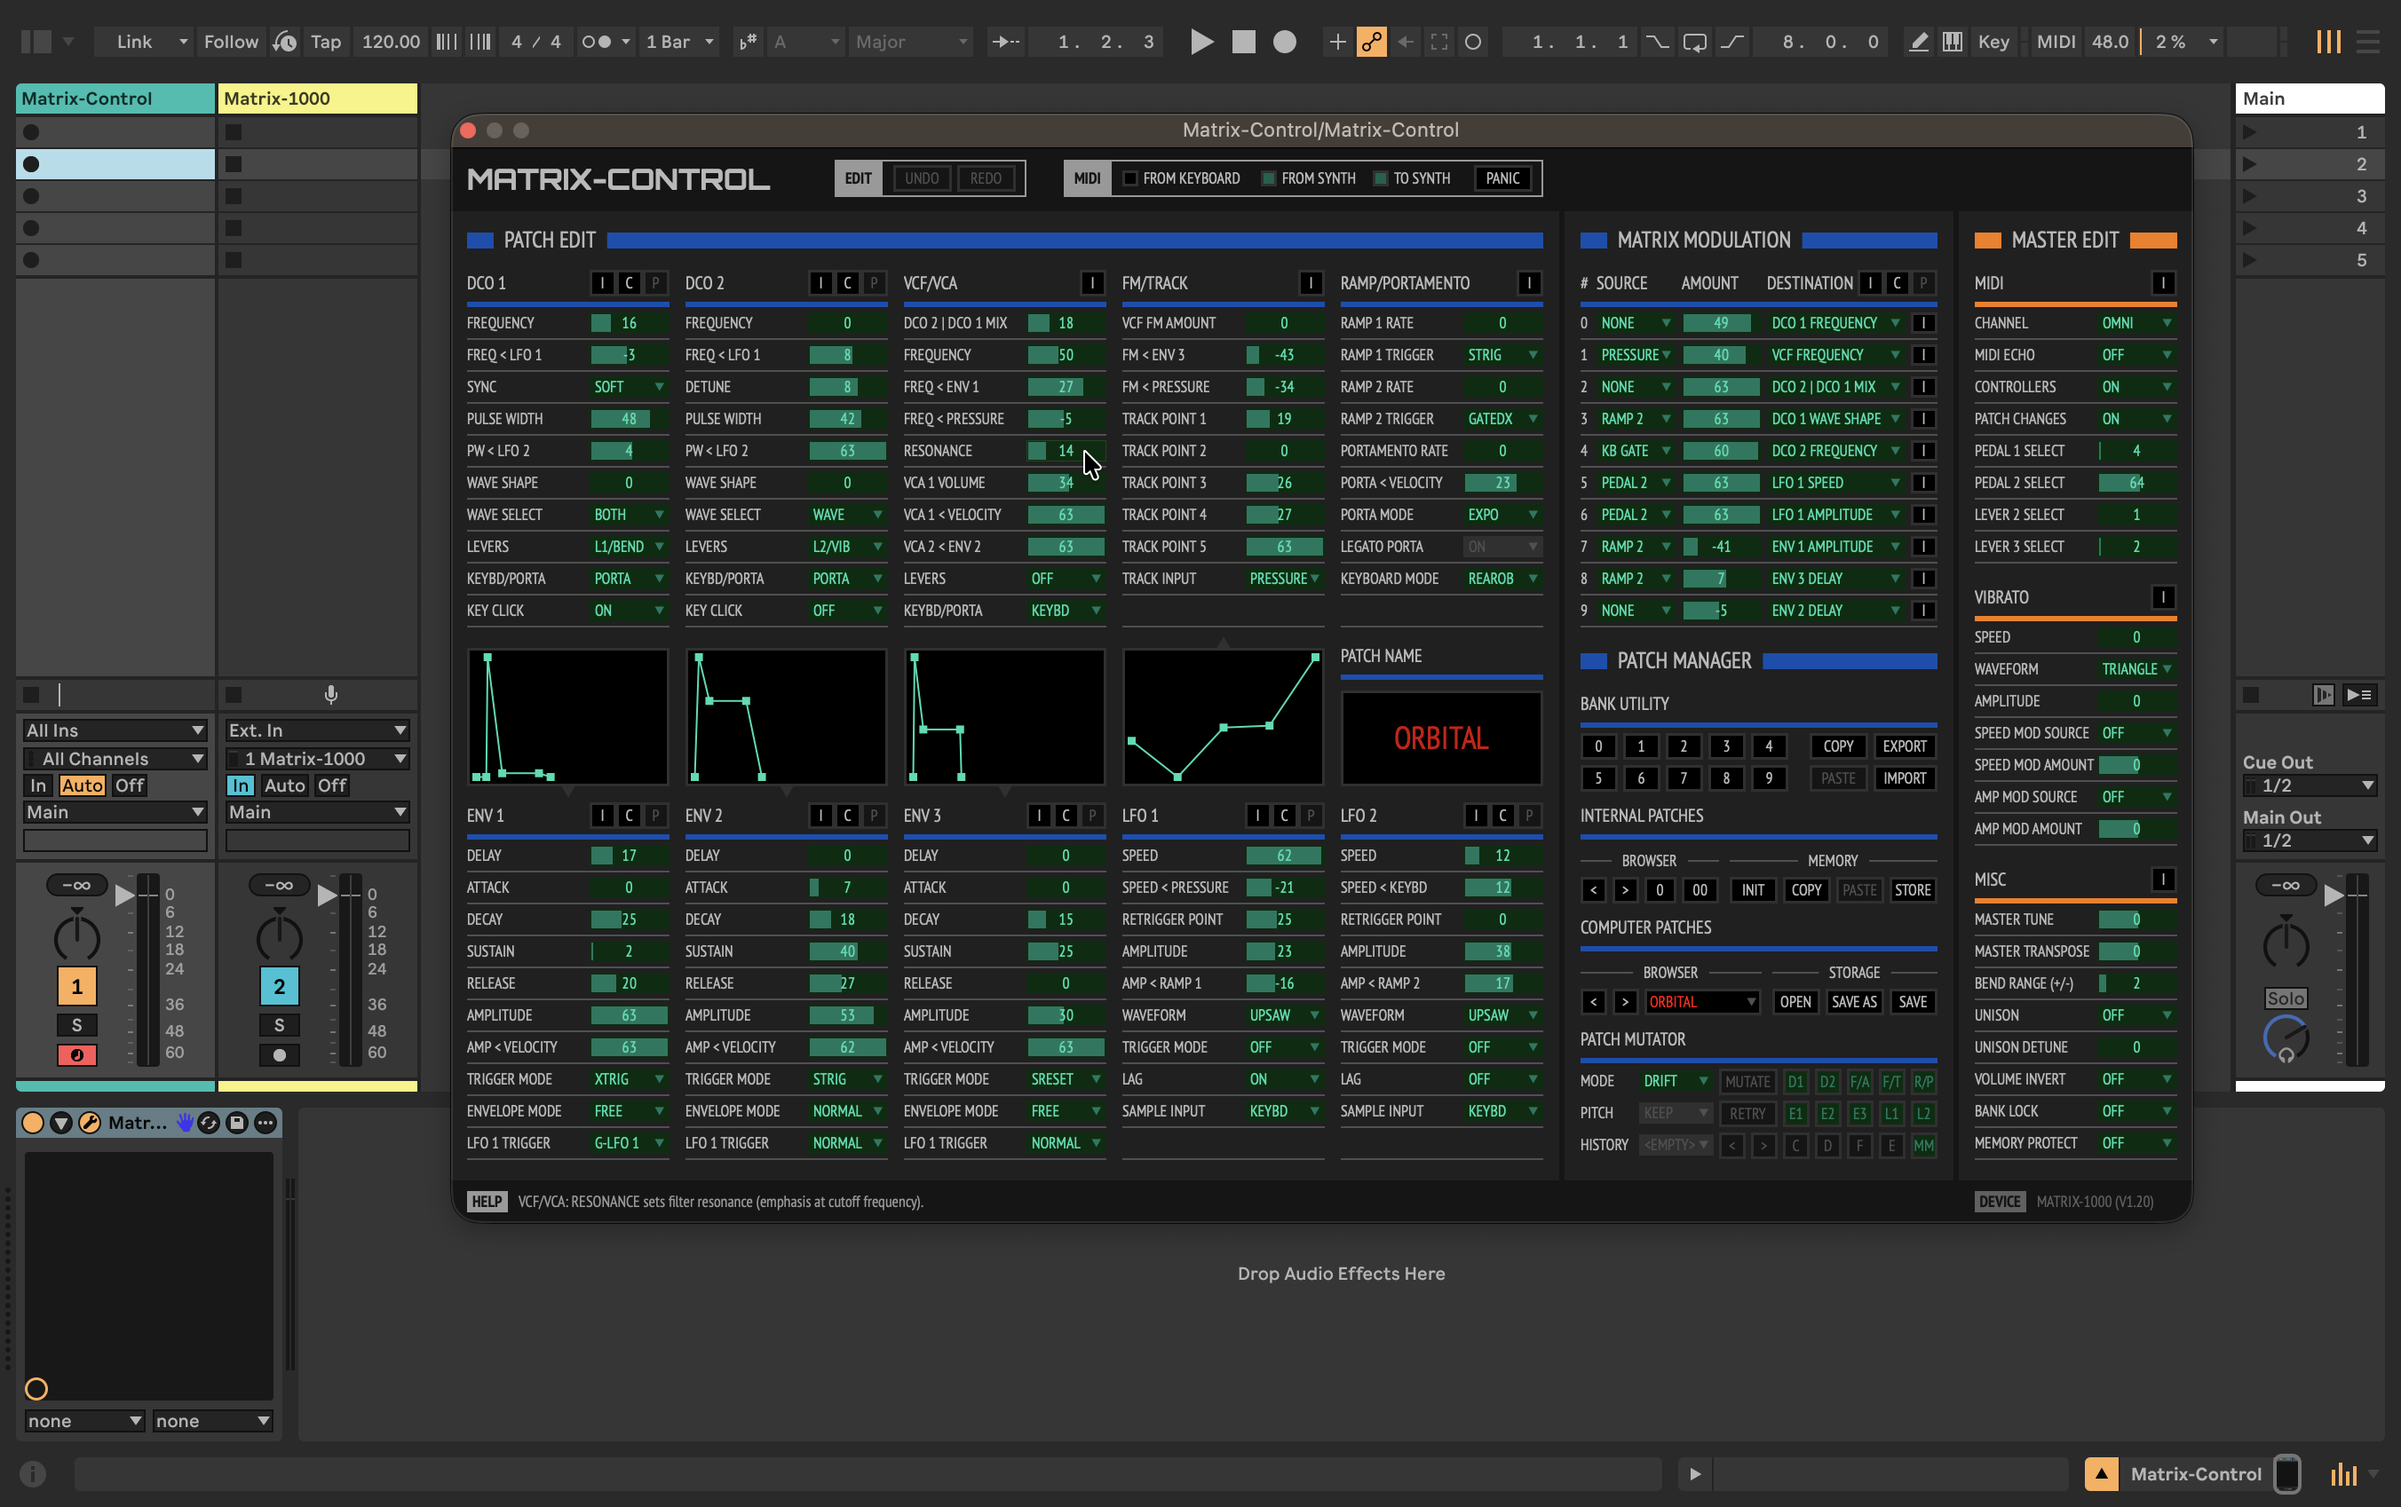
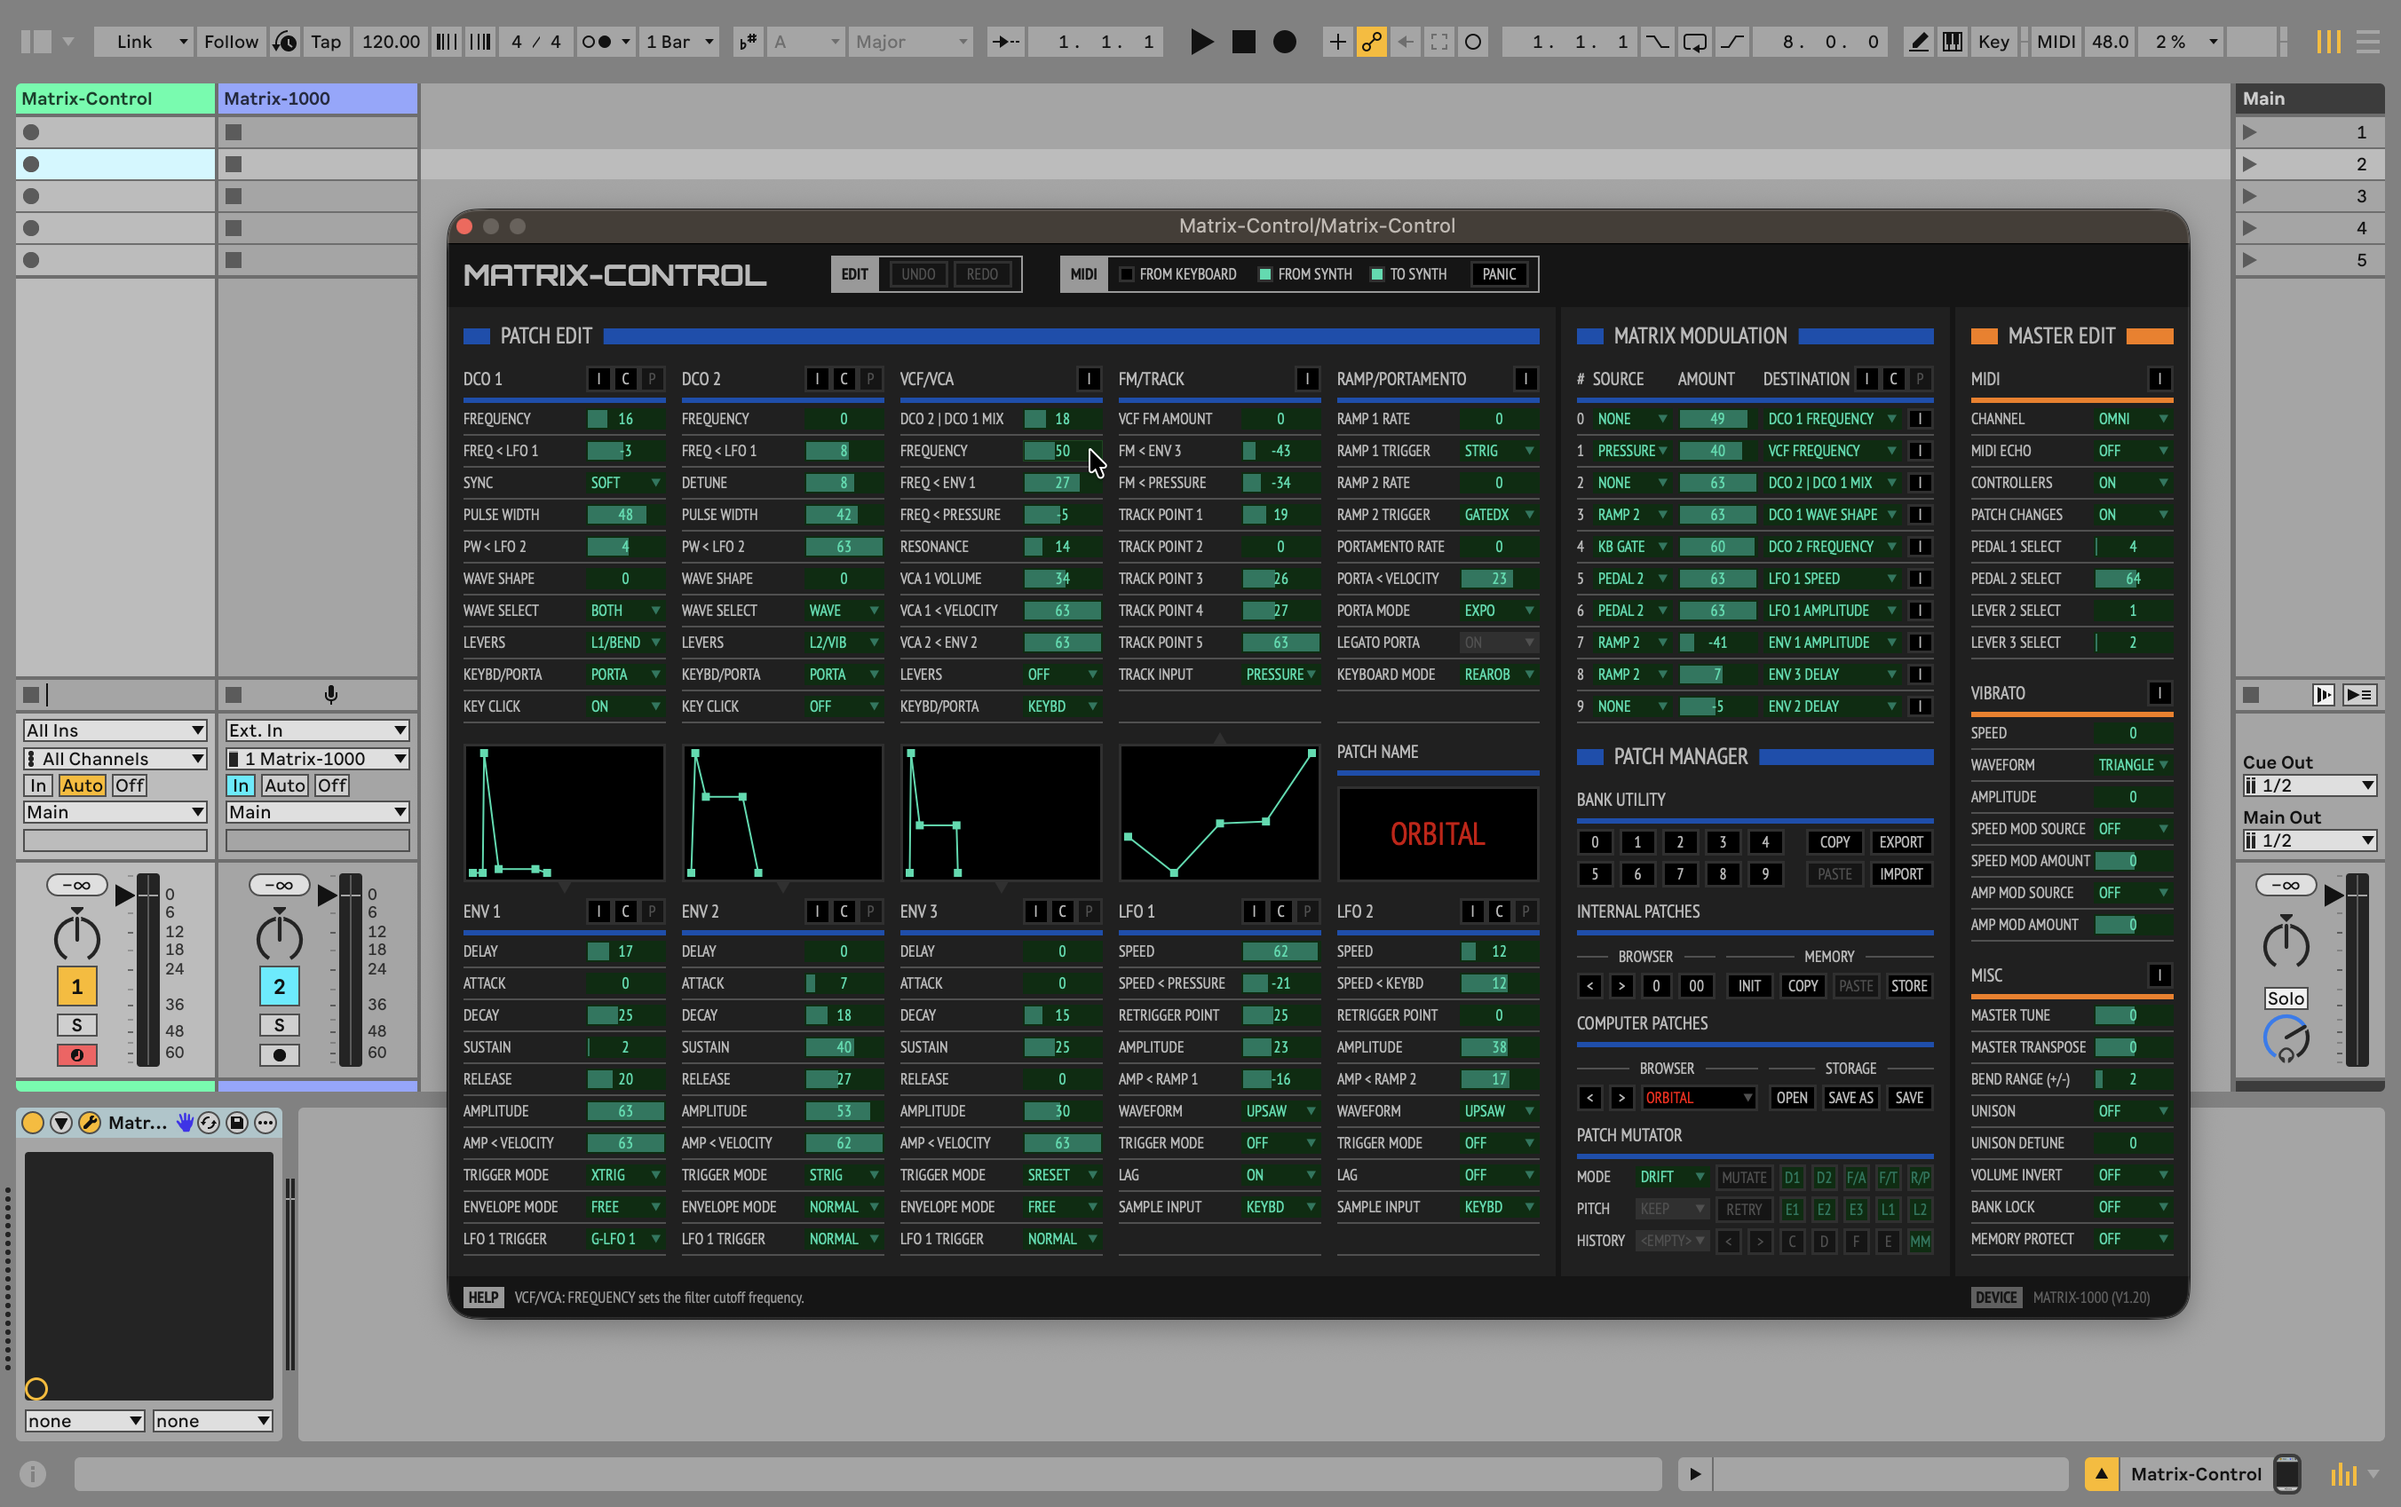
docs: restore ASCII window map in FR manual intro
Name HEADER/BODY/FOOTER before the main screenshot, polish early
install and GETTING STARTED wording, and refresh the DAW figure.

diff --git a/Documentation/Users/Manuals/Matrix-Control-Manuel-Utilisateur.md b/Documentation/Users/Manuals/Matrix-Control-Manuel-Utilisateur.md
@@ -70,7 +70,31 @@ Dès que les connexions MIDI sont opérationnelles, le Matrix-Control demande au
 
 > **À noter.** Un Matrix-6R peut pour l’instant apparaître simplement comme « Matrix-6 ». Cela n'a pas d’incidence sur l’édition d’un patch.
 
-Pour les crédits et les contacts : cliquez sur lelogo `MATRIX-CONTROL` puis le menu `ABOUT…`.
+Pour les crédits et les contacts : cliquez sur le logo `MATRIX-CONTROL` puis le menu `ABOUT…`.
+
+### Les grandes zones de l’écran
+
+Dès l’ouverture, la fenêtre se découpe en trois panneaux — voici un plan simple pour nommer ce que vous voyez avant d’entrer dans le détail :
+
+```
++--------------------------------------------------------------------+
+| Logo MATRIX-CONTROL | Undo/Redo, LEDs MIDI (FROM/TO SYNTH, etc.)   | <- HEADER
++--------------------------------------------------------------------+
+|                     |                        |                     |
+| PATCH EDIT          | MATRIX MODULATION      | MASTER EDIT         |
+| - 10 modules son :  | (10 bus de modulation) | (Matrix-1000        |
+|   DCO, VCF, ENV…    |------------------------|  uniquement ; grisé |
+| - 5 afficheurs :    | PATCH MANAGER          |  sur Matrix-6/6R)   | <- BODY
+|   - 3 Enveloppes    | - INTERNAL PATCHES     |                     |
+|   - 1 Track Gen.    | - COMPUTER PATCHES     |                     |
+|   - 1 PATCH NAME    | - BANK UTILITY         |                     |
+|                     | - PATCH MUTATOR        |                     |
++--------------------------------------------------------------------+
+| Messages/aide utilisateur            Badge DEVICE (type de synthé) | <- FOOTER
++--------------------------------------------------------------------+
+```
+
+En haut, le `HEADER` ; au centre, le panneau principal `BODY` (structuré en trois colonnes d’édition) ; en bas, le `FOOTER` (messages / aide et badge `DEVICE`). La capture ci-dessous montre le rendu à l’écran ; le parcours détaillé de chaque zone est dans la [section 7](#7-se-repérer-dans-lécran-principal).
 
 <div align="center">
 <img src="Screenshots/02-main-window-matrix-1000.png" alt="Fenêtre principale du Matrix-Control avec un Matrix-1000 détecté." />
@@ -128,8 +152,8 @@ Si le plugin n’apparaît pas dans votre DAW, rescannez la liste des plugins et
 ### En application autonome
 
 1. Lancez l’application **Matrix-Control**
-2. Au premier lancement, l’assistant `GETTING STARTED` s’ouvre automatiquement et vous guide (réglages de l'apparence, taille de fenêtre, MIDI, clavier éventuel, écoute audio) — voir [section 5](#5-assistant-de-premier-lancement-getting-started)
-3. Vous pourrez ensuite ajuster le MIDI dans `SETTINGS…` → `MIDI & DEVICE`, et l’écoute dans `SETTINGS…` → `AUDIO`
+2. Au premier lancement, l’assistant `GETTING STARTED` s’ouvre automatiquement et vous guide (réglages de l'apparence graphique, taille de fenêtre, ports MIDI, clavier maître éventuel, écoute audio) — voir [section 5](#5-assistant-de-premier-lancement-getting-started)
+3. Vous pourrez ensuite ajuster les réglages MIDI dans `SETTINGS…` → `MIDI & DEVICE`, et les réglages audio dans `SETTINGS…` → `AUDIO`
 
 ### Dans un DAW
 
@@ -137,7 +161,7 @@ Si le plugin n’apparaît pas dans votre DAW, rescannez la liste des plugins et
 2. Chargez le **Matrix-Control** comme instrument virtuel
 3. Au premier lancement, l’assistant `GETTING STARTED` s’ouvre automatiquement pour vous guider (voir [section 5](#5-assistant-de-premier-lancement-getting-started))
 4. Assurez-vous que la piste peut envoyer et recevoir du MIDI vers / depuis votre interface (selon votre DAW)
-5. Pour entendre le synthé dans le DAW, créez aussi une **piste audio** séparée et branchez-y la sortie du synthé — soit une entrée de votre interface audio, soit un retour de table de mixage. Le Matrix-Control ne remplace pas le synthé : il le pilote en MIDI ; le son arrive toujours de la machine
+5. Pour entendre le synthé dans le DAW, créez également une **piste audio** distincte et branchez-y la sortie du synthé — soit une entrée de votre interface audio, soit un retour de table de mixage. Le Matrix-Control ne remplace pas le synthé : il le pilote en MIDI ; le son arrive toujours de la machine
 
 <div align="center">
 <img src="Screenshots/04-matrix-control-in-daw.png" alt="Le Matrix-Control chargé comme instrument dans un DAW." />
@@ -147,7 +171,7 @@ Si le plugin n’apparaît pas dans votre DAW, rescannez la liste des plugins et
 
 ## 5. Assistant de premier lancement (GETTING STARTED)
 
-Au premier lancement, le Matrix-Control ouvre automatiquement l’assistant **`GETTING STARTED`**. C’est un guide court pour poser l’essentiel avant d’éditer : apparence graphique (`SKIN`), taille de fenêtre (`UI SCALE`), ports MIDI vers / depuis le synthé, clavier maître éventuel, et — en application autonome — écoute audio. Rien n’est définitif : vous pourrez tout revoir ensuite dans `SETTINGS…`.
+Au premier lancement, le Matrix-Control ouvre automatiquement l’assistant **`GETTING STARTED`**. Il est organisé en plusieurs étapes et vous aide à poser l’essentiel avant d’éditer : taille de la fenêtre (`UI SCALE`), apparence graphique (`SKIN`), ports MIDI vers / depuis le synthé, clavier maître éventuel, et — en application autonome — écoute audio. Rien n’est définitif : vous pourrez tout revoir ensuite dans `SETTINGS…`.
 
 <div align="center">
 <img src="Screenshots/05-getting-started-intro.png" alt="Fenêtre GETTING STARTED à l’étape d’introduction." />
@@ -157,13 +181,13 @@ Au premier lancement, le Matrix-Control ouvre automatiquement l’assistant **`G
 
 ### Les étapes
 
-L’écran d’accueil propose `CONTINUE` pour commencer, ou `CONFIGURE LATER` si vous préférez régler cela après. Puis l’assistant enchaîne :
+L’écran d’accueil propose `CONTINUE` pour démarrer les réglages (recommandé), ou `CONFIGURE LATER` si vous préférez configurer plus tard. Puis l’assistant enchaîne :
 
 | Étape | À l’écran | Ce que vous faites |
 |-------|-----------|--------------------|
 | 1 | `USER INTERFACE` | Choisir une taille de fenêtre (`UI SCALE`) et une apparence graphique (`SKIN`) |
-| 2 | `SYNTH COMMUNICATION` | Choisir les ports MIDI dans les deux sens avec le synthé (`SYNTH FROM` / `SYNTH TO`) |
-| 3 | `MIDI KEYBOARD` | Préparer un clavier maître (détail ci-dessous) |
+| 2 | `SYNTH COMMUNICATION` | Sélectionner les ports MIDI pour une communication bidirectionnelle avec le synthé (`SYNTH FROM` / `SYNTH TO`) |
+| 3 | `MIDI KEYBOARD` | Sélectionner un clavier maître MIDI (facultatif, détail ci-dessous) |
 | 4 | `AUDIO` | **Application autonome seulement** — choisir une interface audio et une entrée pour entendre le synthé |
 
 En plugin, l’étape Audio n’apparaît pas : le DAW gère déjà l’audio de la session, et le son du synthé arrive en général sur une piste audio séparée (voir [section 4](#4-installer-et-lancer-le-matrix-control)).
@@ -173,7 +197,7 @@ Après l’introduction, naviguez avec `PREVIOUS` et `NEXT`, puis `FINISH` à la
 ### Clavier maître
 
 - **Application autonome :** la liste `KEYBOARD FROM` sert à choisir le port MIDI d’un clavier maître. Si vous jouez sur le clavier d’un Matrix-6, ou si vous ne souhaitez pas utiliser de clavier maître, utilisez `SKIP`
-- **Plugin :** les notes MIDI viennent du DAW ; l’assistant ne propose pas de liste `KEYBOARD FROM`. Des exemples de branchement figurent plus loin — voir [Clavier maître via le DAW](#clavier-maître-via-le-daw-plugin)
+- **Plugin :** les notes MIDI proviennent du DAW ; l’assistant ne propose pas de liste `KEYBOARD FROM`. Des exemples de branchement figurent plus loin — voir [Clavier maître via le DAW](#clavier-maître-via-le-daw-plugin)
 
 ### Plus tard, ou à nouveau
 
@@ -183,7 +207,7 @@ Pour le relancer, ou pour empêcher qu’il s’ouvre automatiquement : `SETTING
 
 ## 6. Connecter le synthé et établir la communication MIDI
 
-C’est l’étape la plus importante côté matériel. Idéalement, faites ce câblage **avant** (ou pendant) le premier lancement : tant que le synthé n’est pas reconnu, une grande partie de l’éditeur reste indisponible — et sans sortie audio branchée, vous n’entendrez pas vos changements.
+C’est l’étape la plus importante côté matériel. Idéalement, faites ce câblage **avant** (ou pendant) le premier lancement : tant que le synthé n’est pas reconnu, une grande partie de l’éditeur reste indisponible (fenêtre grisée) — et sans sortie audio branchée, vous n’entendrez pas vos changements.
 
 ### Câblage type
 
@@ -193,7 +217,7 @@ C’est l’étape la plus importante côté matériel. Idéalement, faites ce c
 4. Allumez le synthé (et votre interface MIDI / audio si besoin)
 5. Vérifiez que le canal MIDI du synthé est cohérent avec celui que vous utiliserez (sur Matrix-1000, vous pourrez aussi le régler dans `MASTER EDIT` → `MIDI` → `CHANNEL`)
 
-### Choisir les ports MIDI
+### Sélectionner les ports MIDI
 
 L’assistant `GETTING STARTED` propose déjà ces choix. Ensuite, vous les retrouvez uniquement dans `SETTINGS…` → `MIDI & DEVICE` (pas dans le bandeau du haut).
 
